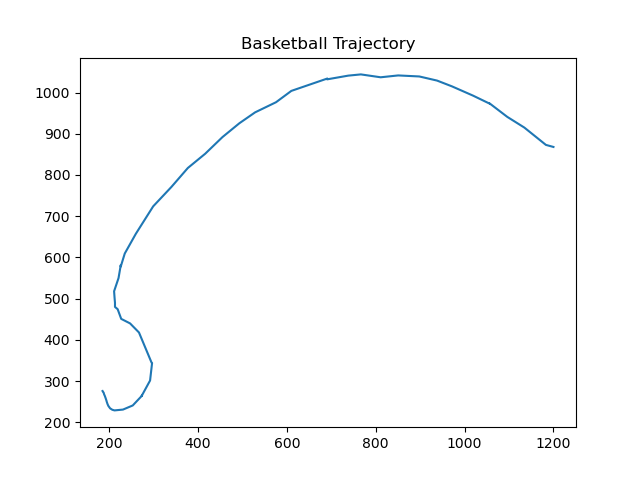
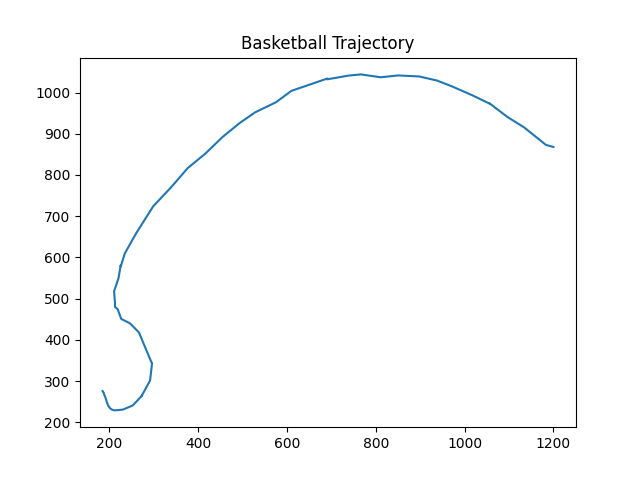
small changes to account for new file names

diff --git a/code/mediapipe1.py b/code/mediapipe1.py
@@ -12,7 +12,8 @@ mp_holistic = mp.solutions.holistic
 # Load video
 # cap = cv2.VideoCapture('final_project/wr_ft_cut_covered.mp4')
 # cap = cv2.VideoCapture('final_project/nash_miss_fullcut.mp4')
-cap = cv2.VideoCapture('final_project/nash_slowed2.mp4')
+# cap = cv2.VideoCapture('final_project/nash_slowed2.mp4')
+cap = cv2.VideoCapture('../videos/nash_shot_clean.mp4')
 
 width = int(cap.get(cv2.CAP_PROP_FRAME_WIDTH))
 height = int(cap.get(cv2.CAP_PROP_FRAME_HEIGHT))
@@ -125,5 +126,5 @@ axs[1].set_xlim(0, width)
 axs[1].set_ylim(height, 0)  # Flip y-axis to match image coordinates
 
 plt.tight_layout()
-plt.savefig('trajectory_plot.png')  # Save the plot as an image
+plt.savefig('../plots/trajectory_plot.png')  # Save the plot as an image
 plt.close(fig)  # Close the plot to prevent displaying it
